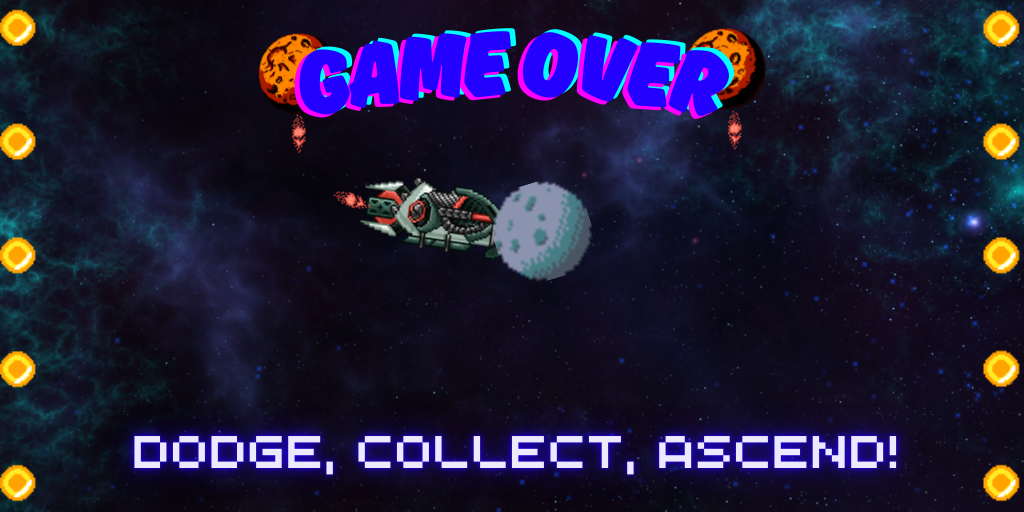
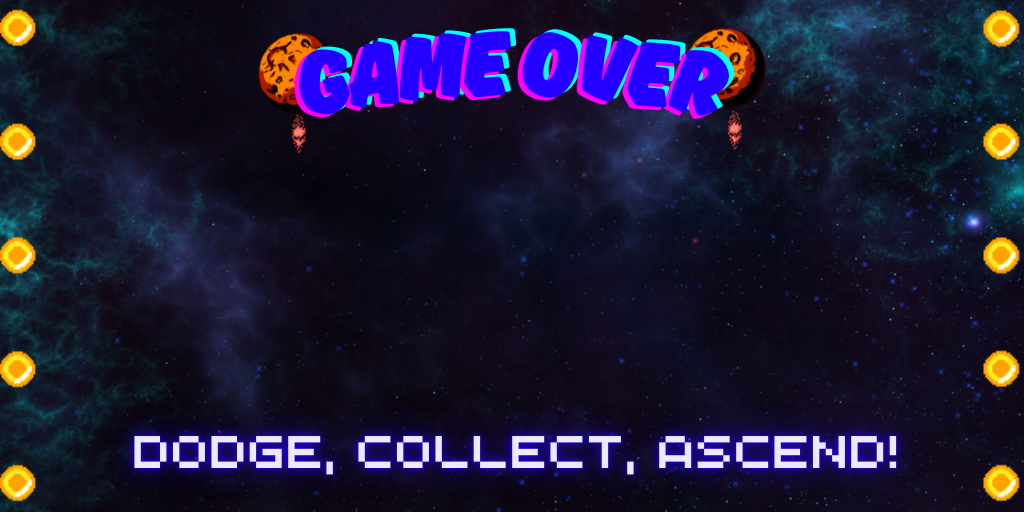
Rocket Rush Gameplay improvements

Changed region(s): [[0.3125, 0.3438, 0.5938, 0.5625]]

diff --git a/src/game_frontend/src/components/games/Game1/GameFile/endScreen.tsx b/src/game_frontend/src/components/games/Game1/GameFile/endScreen.tsx
@@ -1,27 +1,49 @@
 export class EndScreen extends Phaser.Scene{
     private finalScore : number = 0;
+     bg!: Phaser.GameObjects.TileSprite;
+     rocket?: Phaser.Physics.Arcade.Sprite;
+     width = 1024;
+  height = 512;
     constructor(){
         super({key : "EndScreen"})
+    }
+    preload(){
+      this.load.image("endBG", "assets/images/game1/end-bg.png");
+      this.load.spritesheet('rocket', 'assets/images/game1/Ship3.png', {
+      frameWidth: 384,
+      frameHeight: 384
+    });
+    this.load.spritesheet('explosion', 'assets/images/game1/ship_explosion.png', {
+      frameWidth: 256,
+      frameHeight: 256
+    });
     }
 
     init(data : any){
         this.finalScore= data.score;
     }
     create() {
-    this.add.text(400, 200, `Score: ${this.finalScore}`, {
+
+      this.bg = this.add.tileSprite(this.width / 2, this.height / 2, this.width, this.height, 'endBG');
+    this.add.text(512, 370, `Score: ${this.finalScore}`, {
+      fontFamily : 'Coin Ding Dong',
       fontSize: '32px',
       color: '#ffffff'
     }).setOrigin(0.5);
-    
-    // Optionally add a restart button
-    const restartButton = this.add.text(400, 300, 'Restart', {
-      fontSize: '24px',
-      backgroundColor: '#000',
-      padding: { x: 20, y: 10 },
-    }).setOrigin(0.5).setInteractive();
-
-    restartButton.on('pointerdown', () => {
-      this.scene.start('RocketRush'); // Restart game
+    this.anims.create({
+      key: 'explode',
+      frameRate: 2,
+      frames: this.anims.generateFrameNumbers('explosion', { start: 0, end: 10 }),
+      repeat: -1
     });
+    this.rocket = this.physics.add.sprite(this.width / 2, this.height / 2, 'rocket')
+      .setScale(0.4); 
+    this.time.addEvent({
+      delay : 400,
+      callback : ()=> {this.rocket?.play('explode')},
+      callbackScope : this,
+      loop : true 
+    })
+  
   }
 }

diff --git a/src/game_frontend/src/components/games/Game1/GameFile/index.tsx b/src/game_frontend/src/components/games/Game1/GameFile/index.tsx
@@ -127,7 +127,7 @@ this.gameText = this.add.text(this.levelText.x + 160 + this.levelText.width + 90
 
     this.anims.create({
       key: 'explode',
-      frameRate: 5,
+      frameRate: 9,
       frames: this.anims.generateFrameNumbers('explosion', { start: 4, end: 10 }),
       repeat: 0
     });
